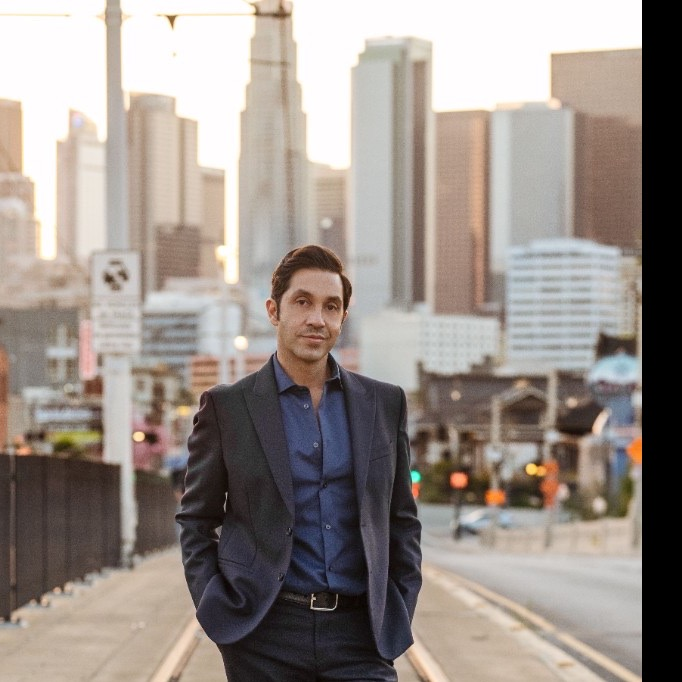
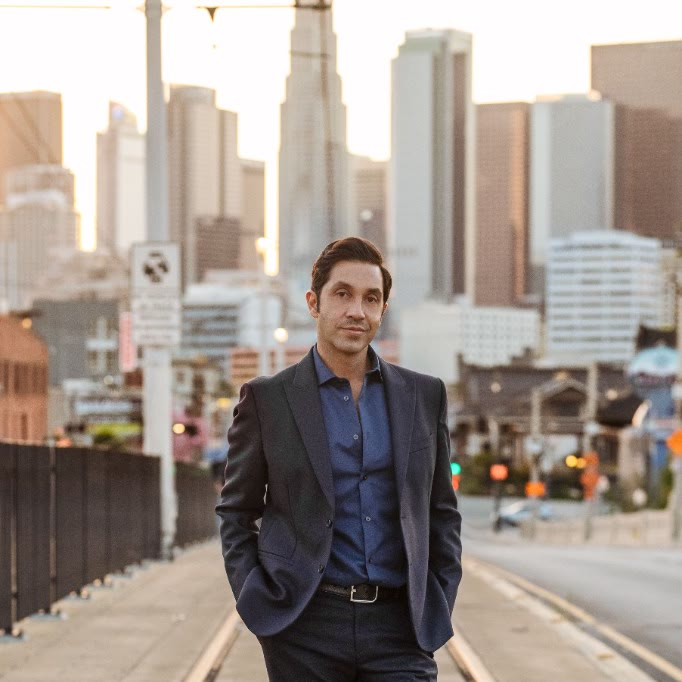
Center team faces and keep full heads in frame.

diff --git a/team.html b/team.html
@@ -14,8 +14,8 @@
       href="https://fonts.googleapis.com/css2?family=Cormorant+Garamond:ital,wght@0,500;0,600;0,700;1,500&family=Montserrat:wght@400;500;600;700&display=swap"
       rel="stylesheet"
     />
-    <link rel="stylesheet" href="styles.css?v=20260813" />
-    <link rel="stylesheet" href="pages.css?v=20260813" />
+    <link rel="stylesheet" href="styles.css?v=20260817b" />
+    <link rel="stylesheet" href="pages.css?v=20260817b" />
   </head>
   <body class="page-body team-page">
     <header class="site-header">
@@ -112,7 +112,7 @@
         <article class="team-member">
           <img
             class="team-photo team-photo--circle"
-            src="images/team/shonna-hill.jpg?v=20260817"
+            src="images/team/shonna-hill.jpg?v=20260817b"
             alt="Shonna Hill, Psy.D., Clinical Director"
           />
           <div class="team-copy">
@@ -144,7 +144,7 @@
         <article class="team-member">
           <img
             class="team-photo team-photo--square"
-            src="images/team/barbara-pavlo.jpg?v=20260817"
+            src="images/team/barbara-pavlo.jpg?v=20260817b"
             alt="Barbara Pavlo, Psy.D., Trauma Specialist"
           />
           <div class="team-copy">
@@ -171,7 +171,7 @@
         <article class="team-member">
           <img
             class="team-photo team-photo--soft"
-            src="images/team/alejandro-zavala.jpg?v=20260817"
+            src="images/team/alejandro-zavala.jpg?v=20260817b"
             alt="Alejandro Zavala, Psy.D., Addiction Specialist"
           />
           <div class="team-copy">

diff --git a/pages.css b/pages.css
@@ -1730,7 +1730,7 @@
   width: 100%;
   aspect-ratio: 1;
   object-fit: cover;
-  object-position: center top;
+  object-position: center center;
   border: 2px solid #c5a059;
   background: #e8e4dc;
   display: block;
@@ -1742,7 +1742,6 @@
 
 .team-photo--circle {
   border-radius: 50%;
-  object-position: center 20%;
 }
 
 .team-photo--soft {
